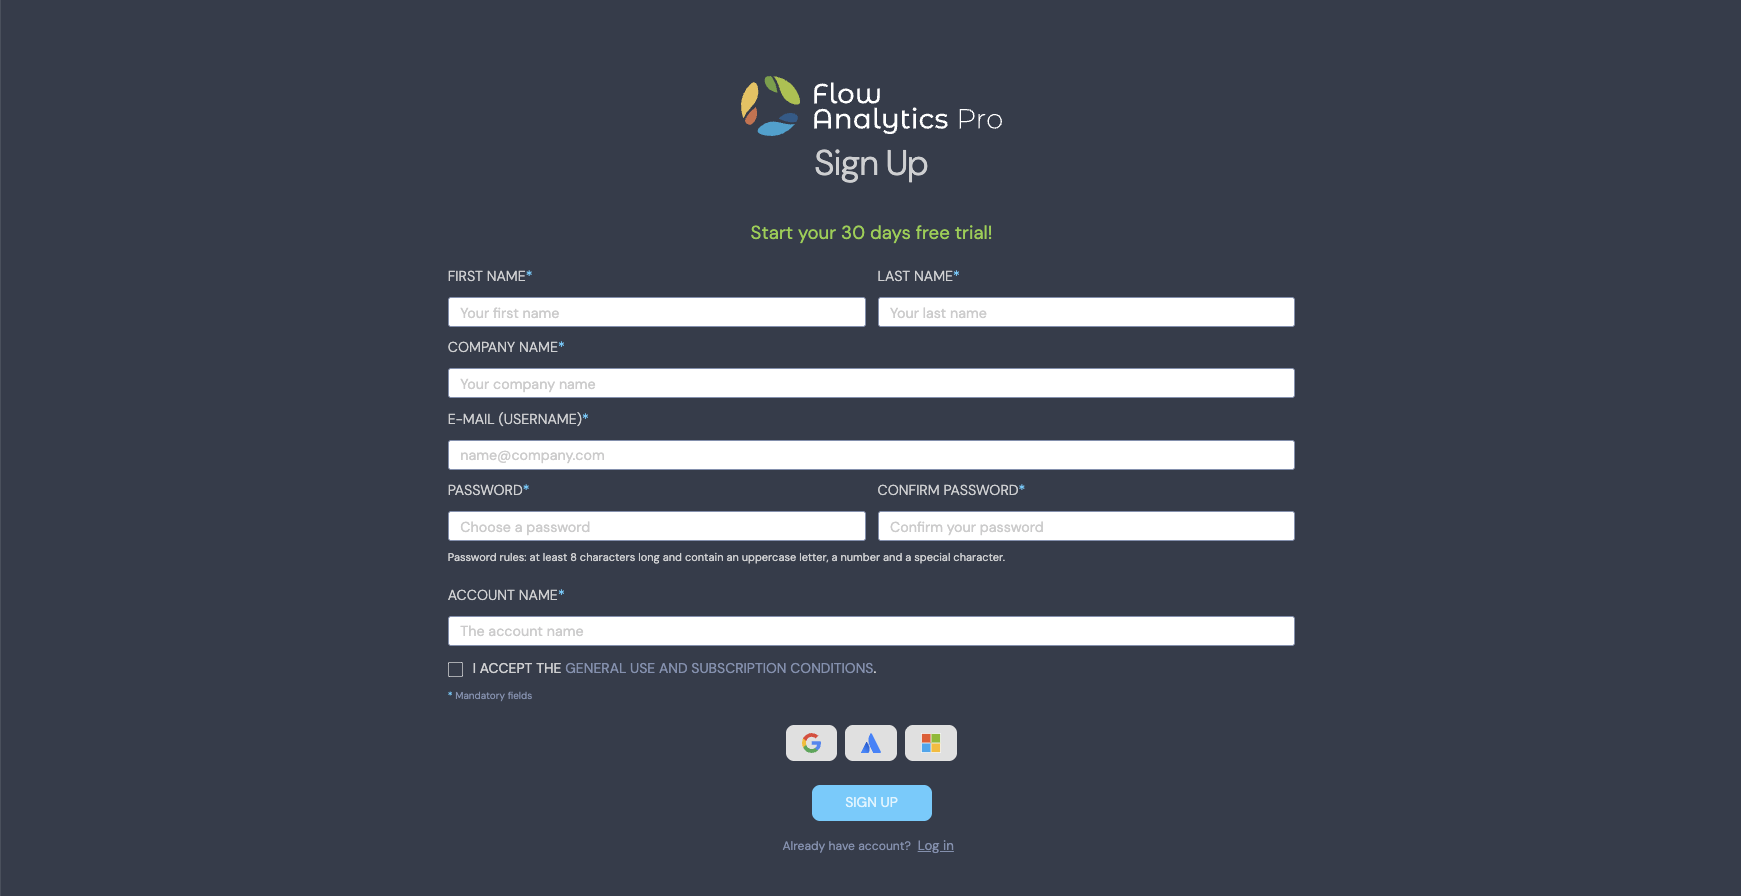
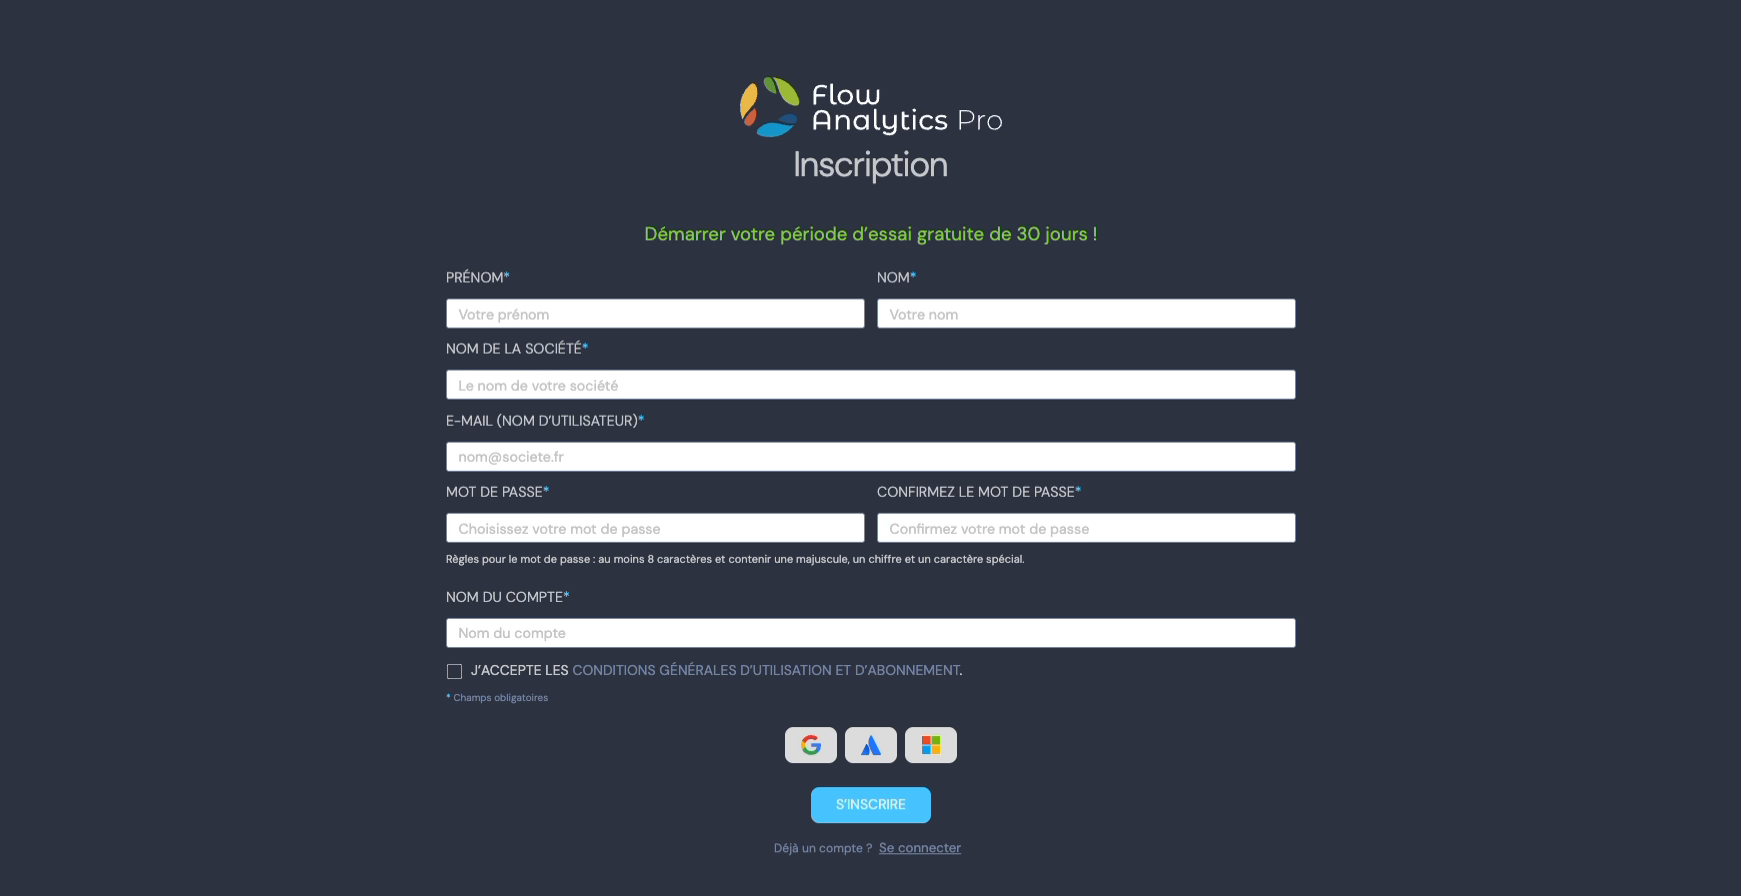
Show the French sign-up page in the FR fiche 1.3
The French recording shows that the sign-up page exists in French.
Figure 4 FR is now a still from that recording (cursor removed),
approved by the owner; the English screenshot moves to the EN fiche.

Claude-Session: https://claude.ai/code/session_01F2XKqG26AzSFRfFbigMNaP

diff --git a/i18n/en/docusaurus-plugin-content-docs/current/1-prise-en-main/se-connecter.md b/i18n/en/docusaurus-plugin-content-docs/current/1-prise-en-main/se-connecter.md
@@ -17,7 +17,7 @@ On the login page, click Get started and follow the steps. The person who create
 
 <figure>
 
-![Cloud edition sign-up page](/img/fiches/se-connecter/figure-4.png)
+![Cloud edition sign-up page](/img/fiches/se-connecter/en/figure-4.png)
 
 <figcaption>Figure 4 – Cloud edition sign-up page</figcaption>
 </figure>
